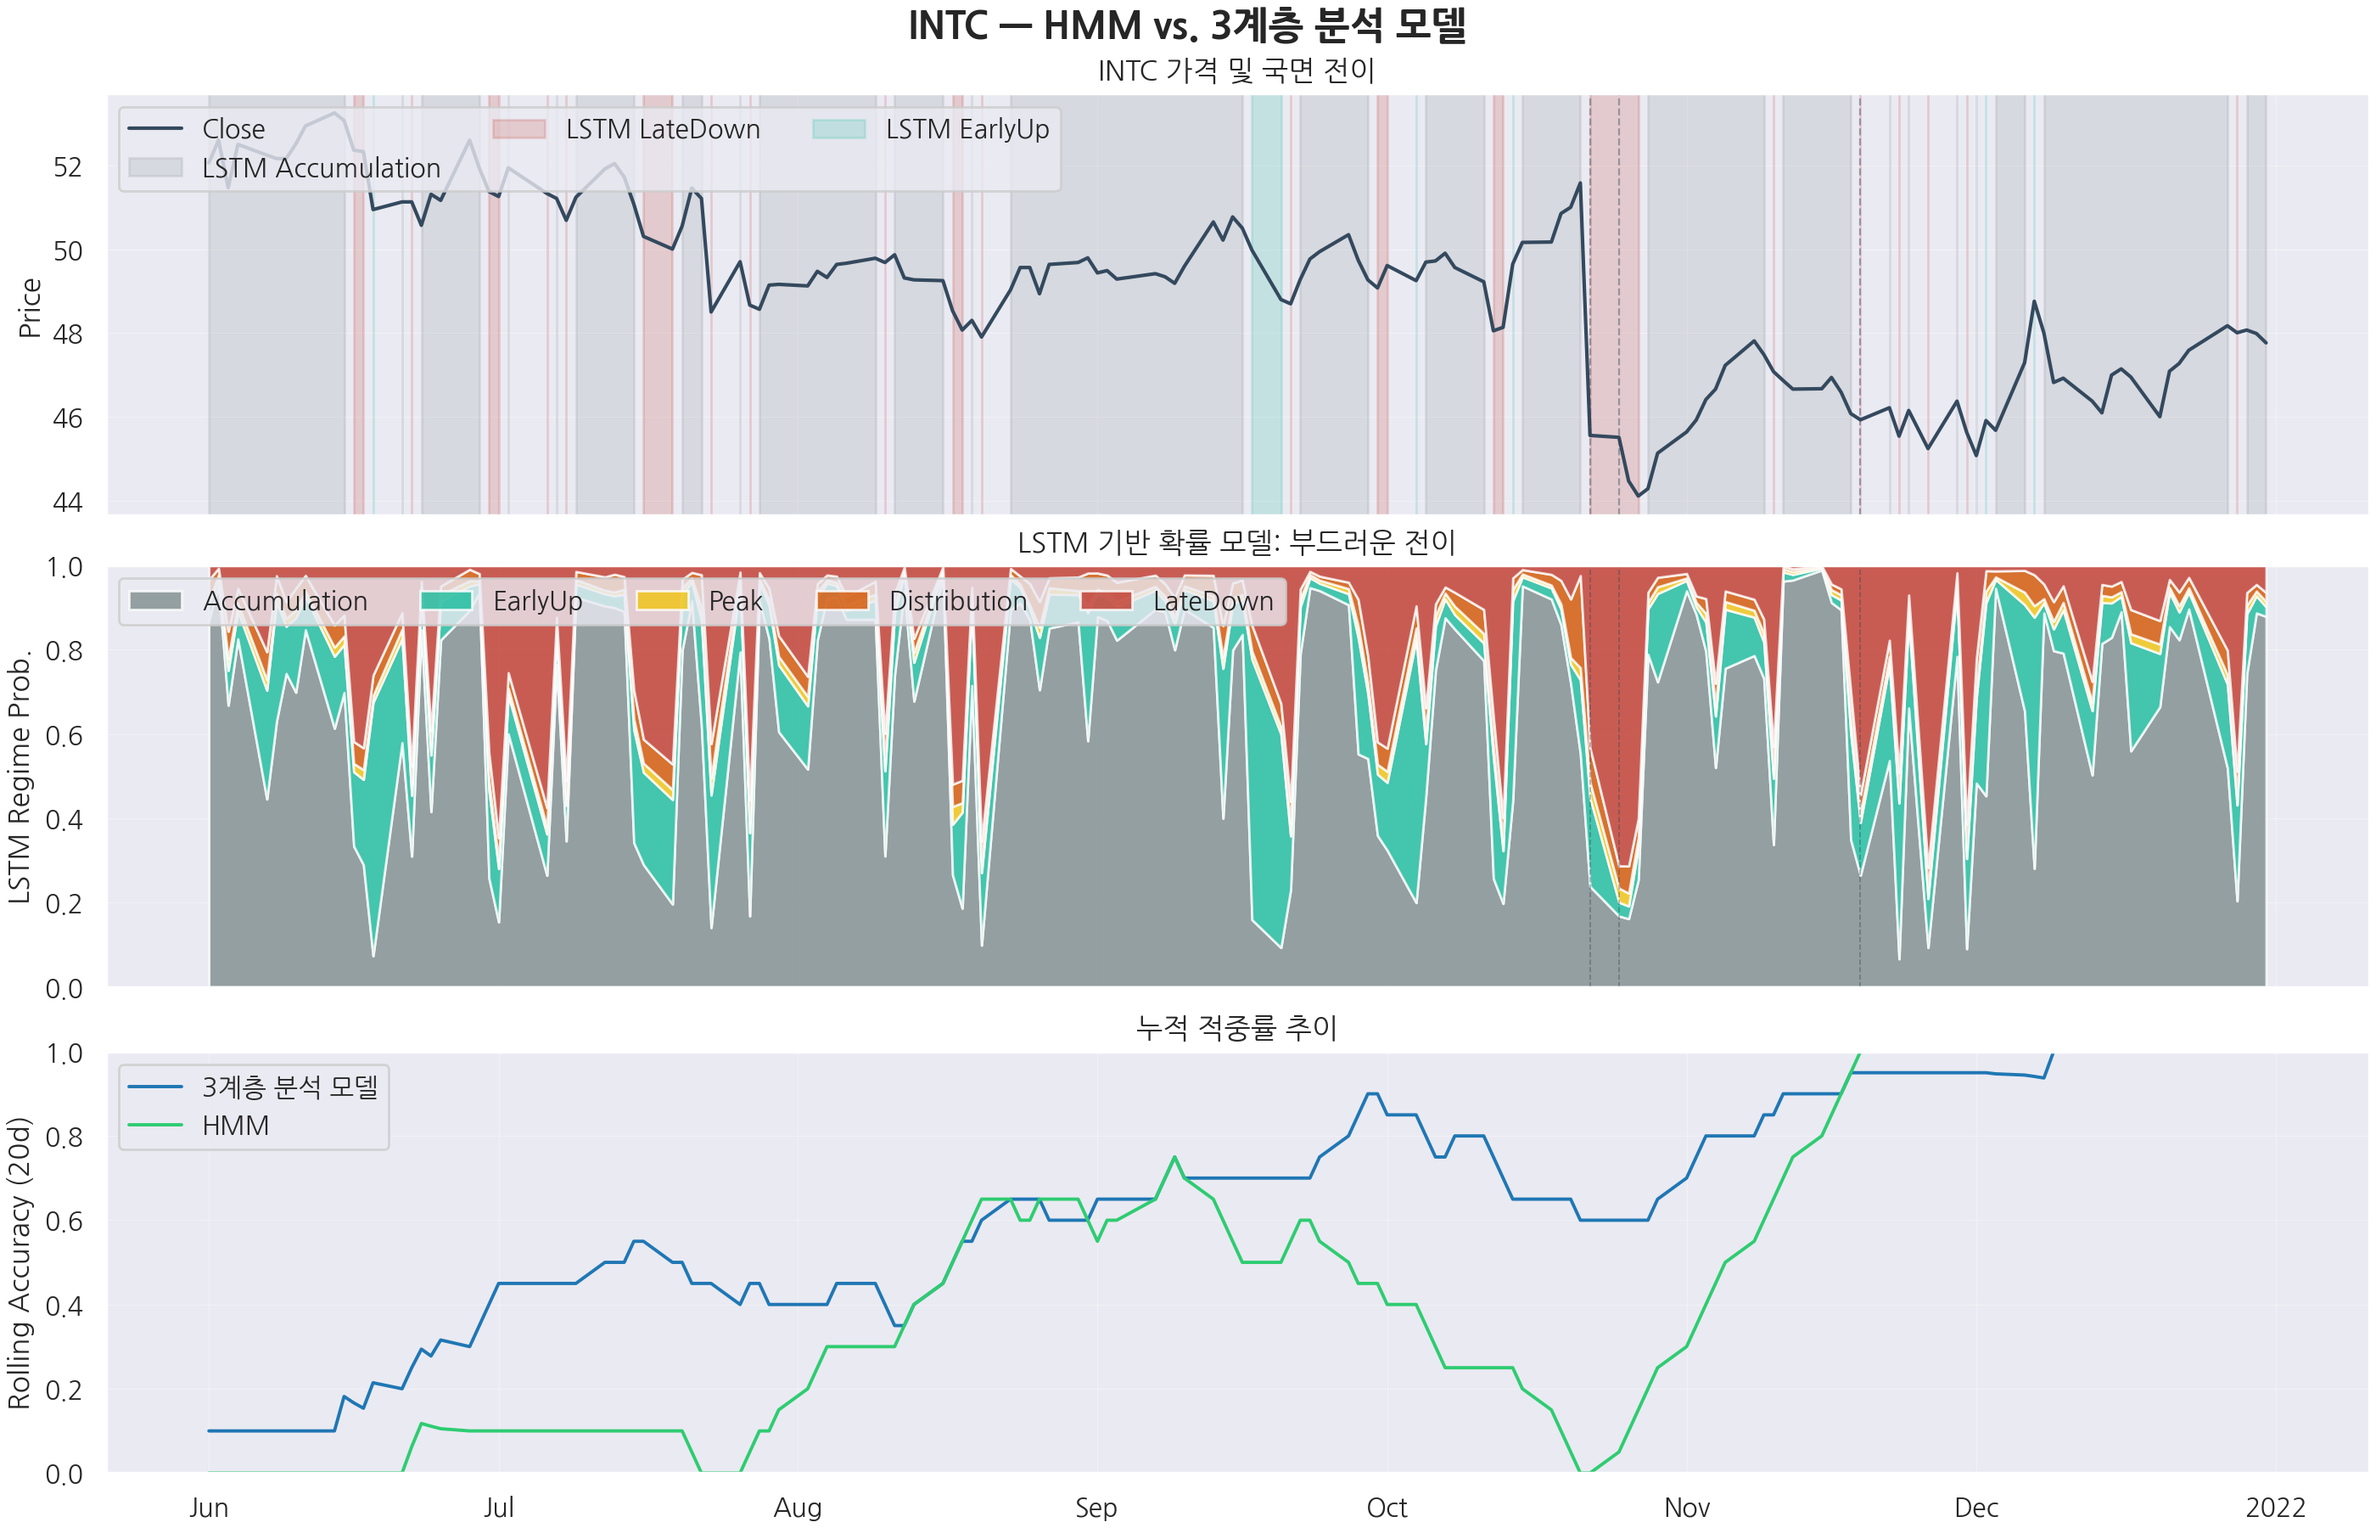
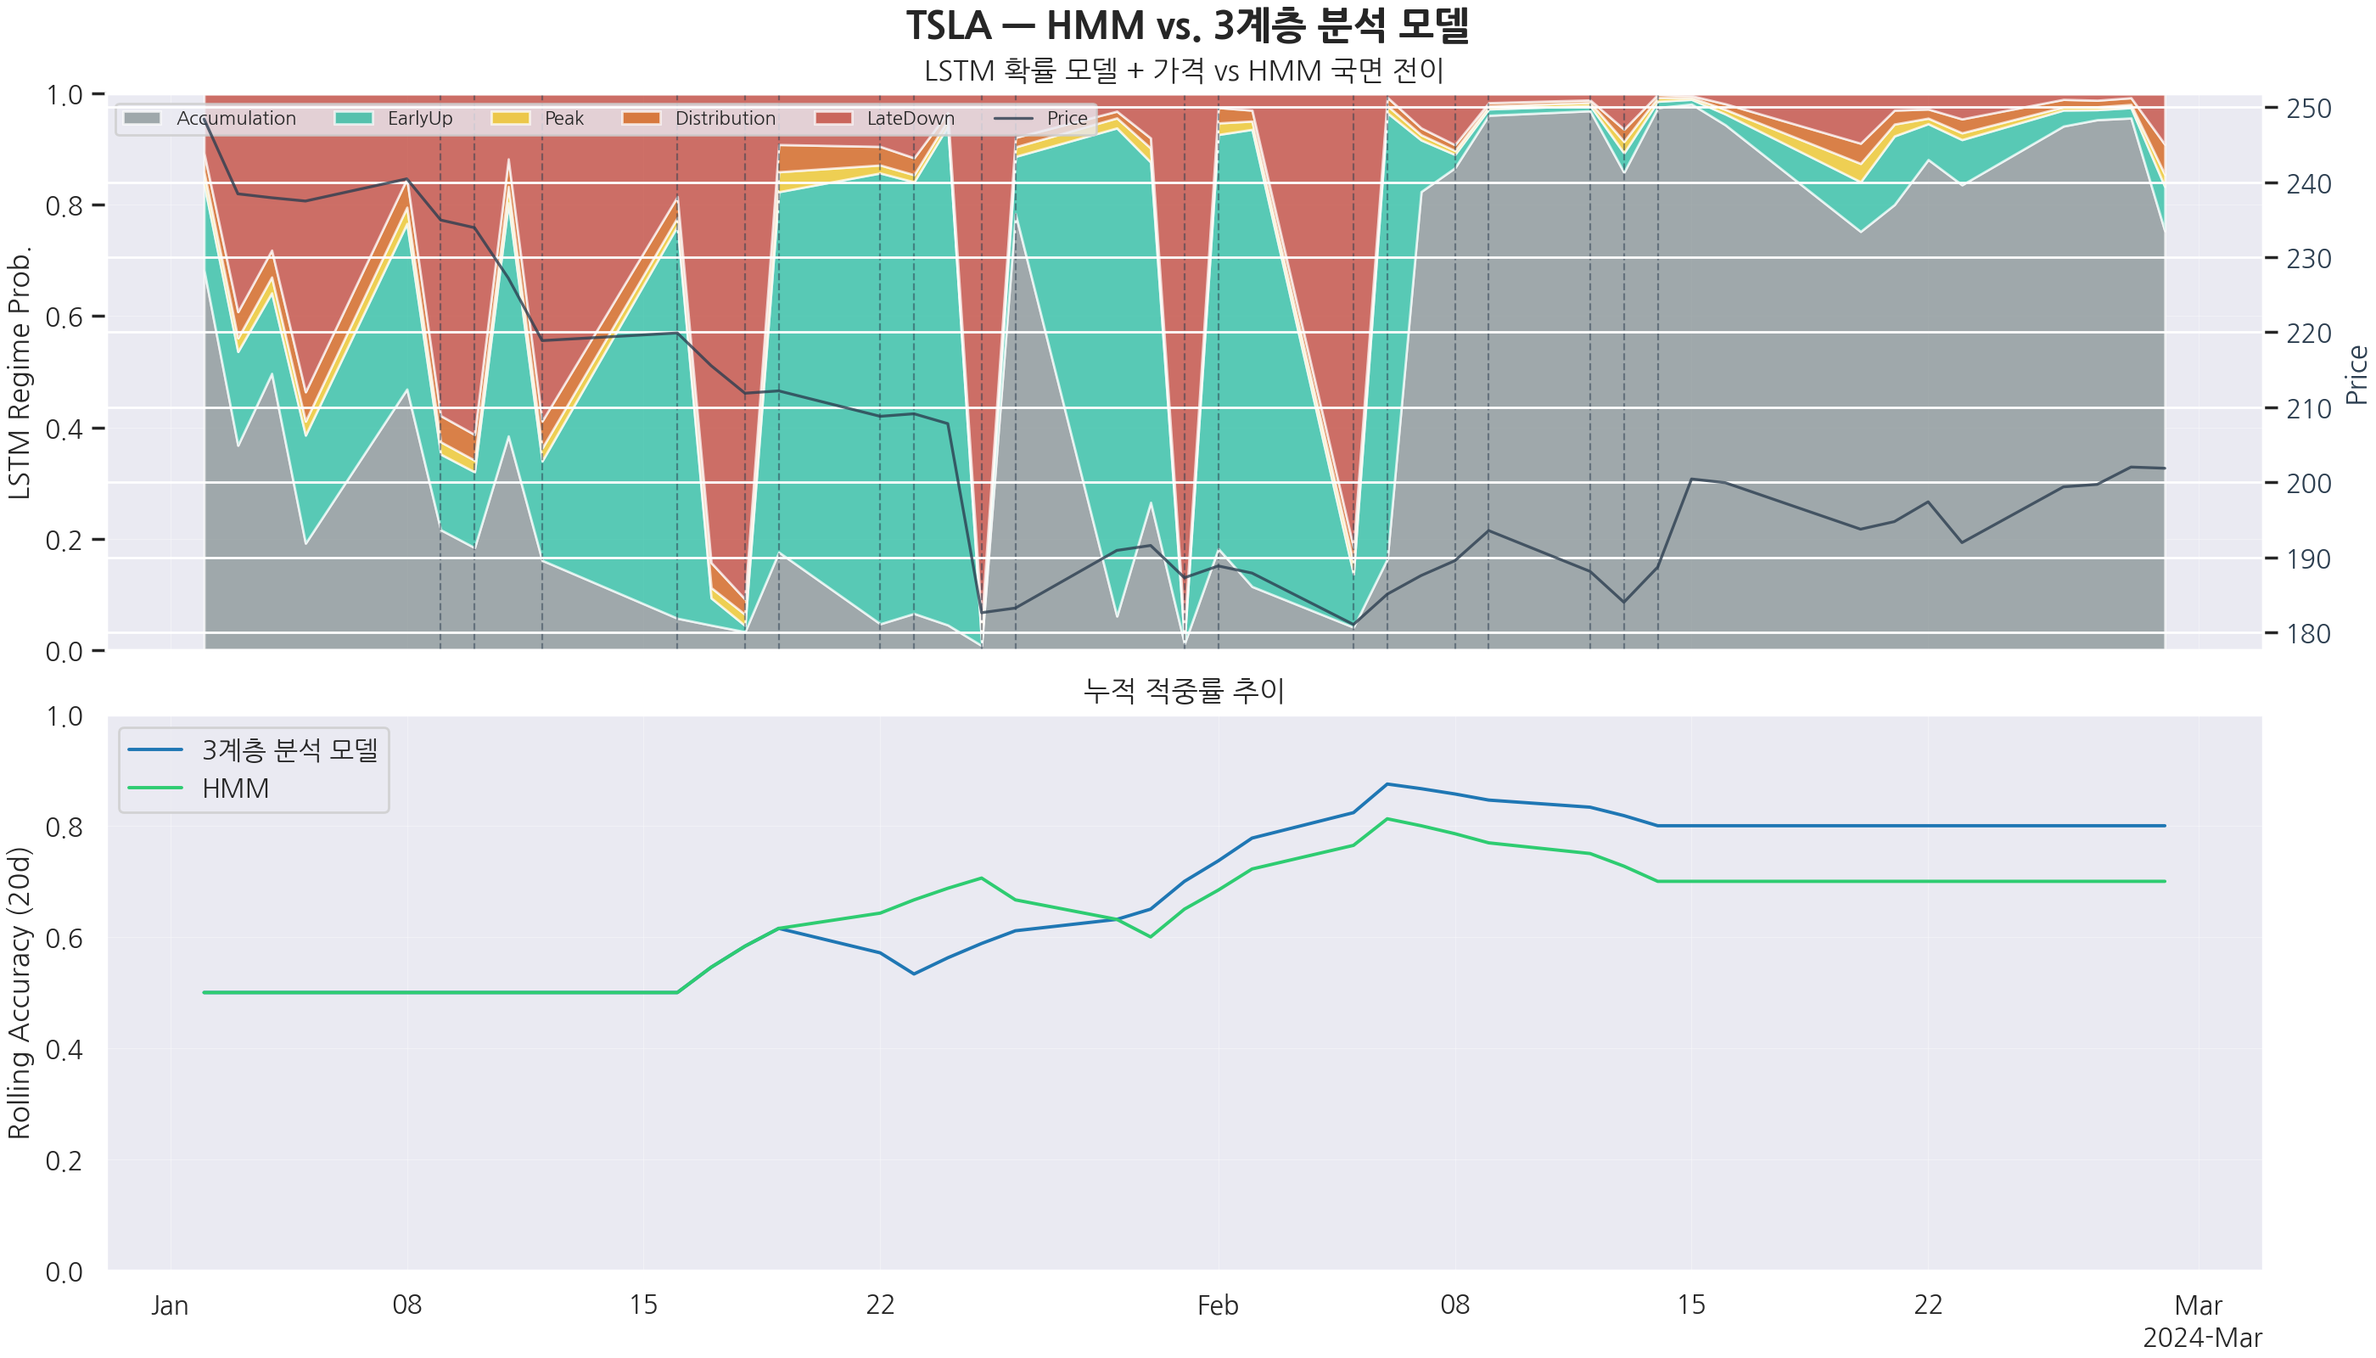
국면 전이

diff --git a/reports/paper_plots/backtest_result.py b/reports/paper_plots/backtest_result.py
@@ -225,50 +225,48 @@ def plot_comparison(df: pd.DataFrame, ticker: str, output: Path, eval_horizon: i
     df = df.copy()
     df["position_size"] = df.get("position_size", 0.0).fillna(0.0)
 
-    fig, axes = plt.subplots(3, 1, sharex=True, figsize=(14, 9), constrained_layout=True)
+    fig, axes = plt.subplots(2, 1, sharex=True, figsize=(14, 8), constrained_layout=True)
 
-    # Price + regime boundaries
-    ax_price = axes[0]
-    ax_price.plot(date_series, df["close"], color="#34495e", linewidth=1.5, label="Close")
-    seen_labels = set()
-    for state, start, end in _state_segments(date_series.to_numpy(), df["lstm_state"]):
-        color = LSTM_STATE_COLORS.get(state, "#bdc3c7")
-        label = f"LSTM {state}" if state not in seen_labels else None
-        ax_price.axvspan(start, end, color=color, alpha=0.18, label=label)
-        seen_labels.add(state)
-    hmm_transitions = [
-        date_series[i]
-        for i in range(1, len(df))
-        if df["hmm_state"].iloc[i] != df["hmm_state"].iloc[i - 1]
-    ]
-    for x in hmm_transitions:
-        ax_price.axvline(x, color="#2c3e50", linestyle="--", linewidth=0.8, alpha=0.4)
-    ax_price.set_ylabel("Price")
-    ax_price.set_title(f"{ticker} 가격 및 국면 전이")
-    handles, labels = ax_price.get_legend_handles_labels()
-    ax_price.legend(handles, labels, loc="upper left", ncol=3)
-    ax_price.grid(True, linewidth=0.3, alpha=0.4)
-
-    # LSTM probability landscape vs HMM boundaries
-    ax_prob = axes[1]
+    # LSTM probability landscape with price overlay
+    ax_prob = axes[0]
     prob_arrays = [df.get(f"state_prob_{state}", pd.Series([0.0] * len(df))).to_numpy() for state in LSTM_STATE_ORDER]
     ax_prob.stackplot(
         date_series,
         *prob_arrays,
         labels=LSTM_STATE_ORDER,
         colors=[LSTM_STATE_COLORS.get(state, "#cccccc") for state in LSTM_STATE_ORDER],
-        alpha=0.8,
+        alpha=0.7,
     )
+
+    # Add price line on secondary y-axis
+    ax_price_secondary = ax_prob.twinx()
+    price_line = ax_price_secondary.plot(date_series, df["close"], color="#2c3e50", linewidth=1.2,
+                                        label="Price", alpha=0.8)
+    ax_price_secondary.set_ylabel("Price", color="#2c3e50")
+    ax_price_secondary.tick_params(axis='y', labelcolor="#2c3e50")
+
+    hmm_transitions = [
+        date_series[i]
+        for i in range(1, len(df))
+        if df["hmm_state"].iloc[i] != df["hmm_state"].iloc[i - 1]
+    ]
     for x in hmm_transitions:
-        ax_prob.axvline(x, color="#2c3e50", linestyle="--", linewidth=0.6, alpha=0.4)
+        ax_prob.axvline(x, color="#2c3e50", linestyle="--", linewidth=0.8, alpha=0.5)
+
     ax_prob.set_ylim(0, 1)
     ax_prob.set_ylabel("LSTM Regime Prob.")
-    ax_prob.set_title("LSTM 기반 확률 모델: 부드러운 전이")
-    ax_prob.legend(loc="upper left", ncol=5)
+    ax_prob.set_title("LSTM 확률 모델 + 가격 vs HMM 국면 전이")
+
+    # Combine legends from both axes
+    prob_handles, prob_labels = ax_prob.get_legend_handles_labels()
+    price_handles, price_labels = ax_price_secondary.get_legend_handles_labels()
+    combined_handles = prob_handles + price_handles
+    combined_labels = prob_labels + price_labels
+    ax_prob.legend(combined_handles, combined_labels, loc="upper left", ncol=6, fontsize=8)
     ax_prob.grid(True, linewidth=0.3, alpha=0.4)
 
     # Rolling accuracy
-    ax_roll = axes[2]
+    ax_roll = axes[1]
     window = max(1, int(eval_horizon))
     model_roll = df["model_correct"].rolling(window, min_periods=max(5, window // 2)).mean().ffill().bfill()
     hmm_roll = df["hmm_correct"].rolling(window, min_periods=max(5, window // 2)).mean().ffill().bfill()
@@ -280,8 +278,8 @@ def plot_comparison(df: pd.DataFrame, ticker: str, output: Path, eval_horizon: i
     ax_roll.grid(True, linewidth=0.3, alpha=0.4)
     ax_roll.legend(loc="upper left")
 
-    axes[-1].xaxis.set_major_locator(mdates.AutoDateLocator())
-    axes[-1].xaxis.set_major_formatter(mdates.ConciseDateFormatter(mdates.AutoDateLocator()))
+    axes[1].xaxis.set_major_locator(mdates.AutoDateLocator())
+    axes[1].xaxis.set_major_formatter(mdates.ConciseDateFormatter(mdates.AutoDateLocator()))
 
     fig.suptitle(f"{ticker} — HMM vs. 3계층 분석 모델", fontsize=16, fontweight="bold")
     output.parent.mkdir(parents=True, exist_ok=True)
